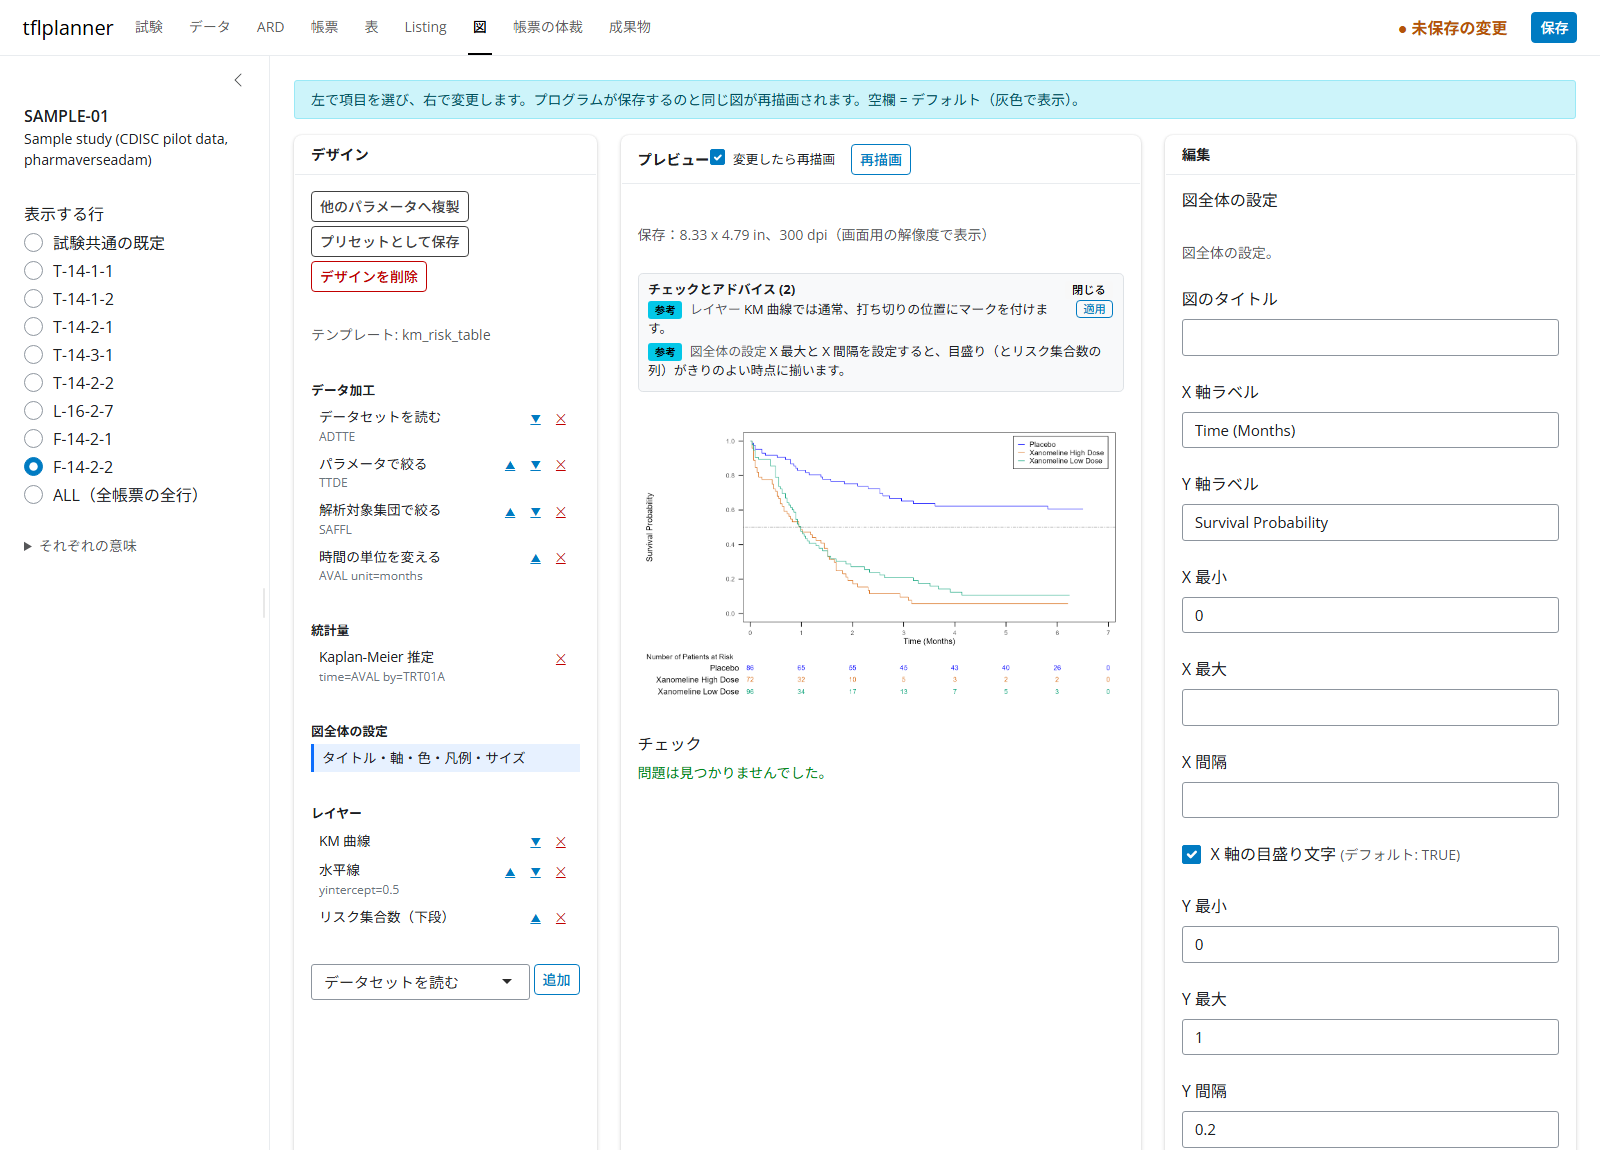
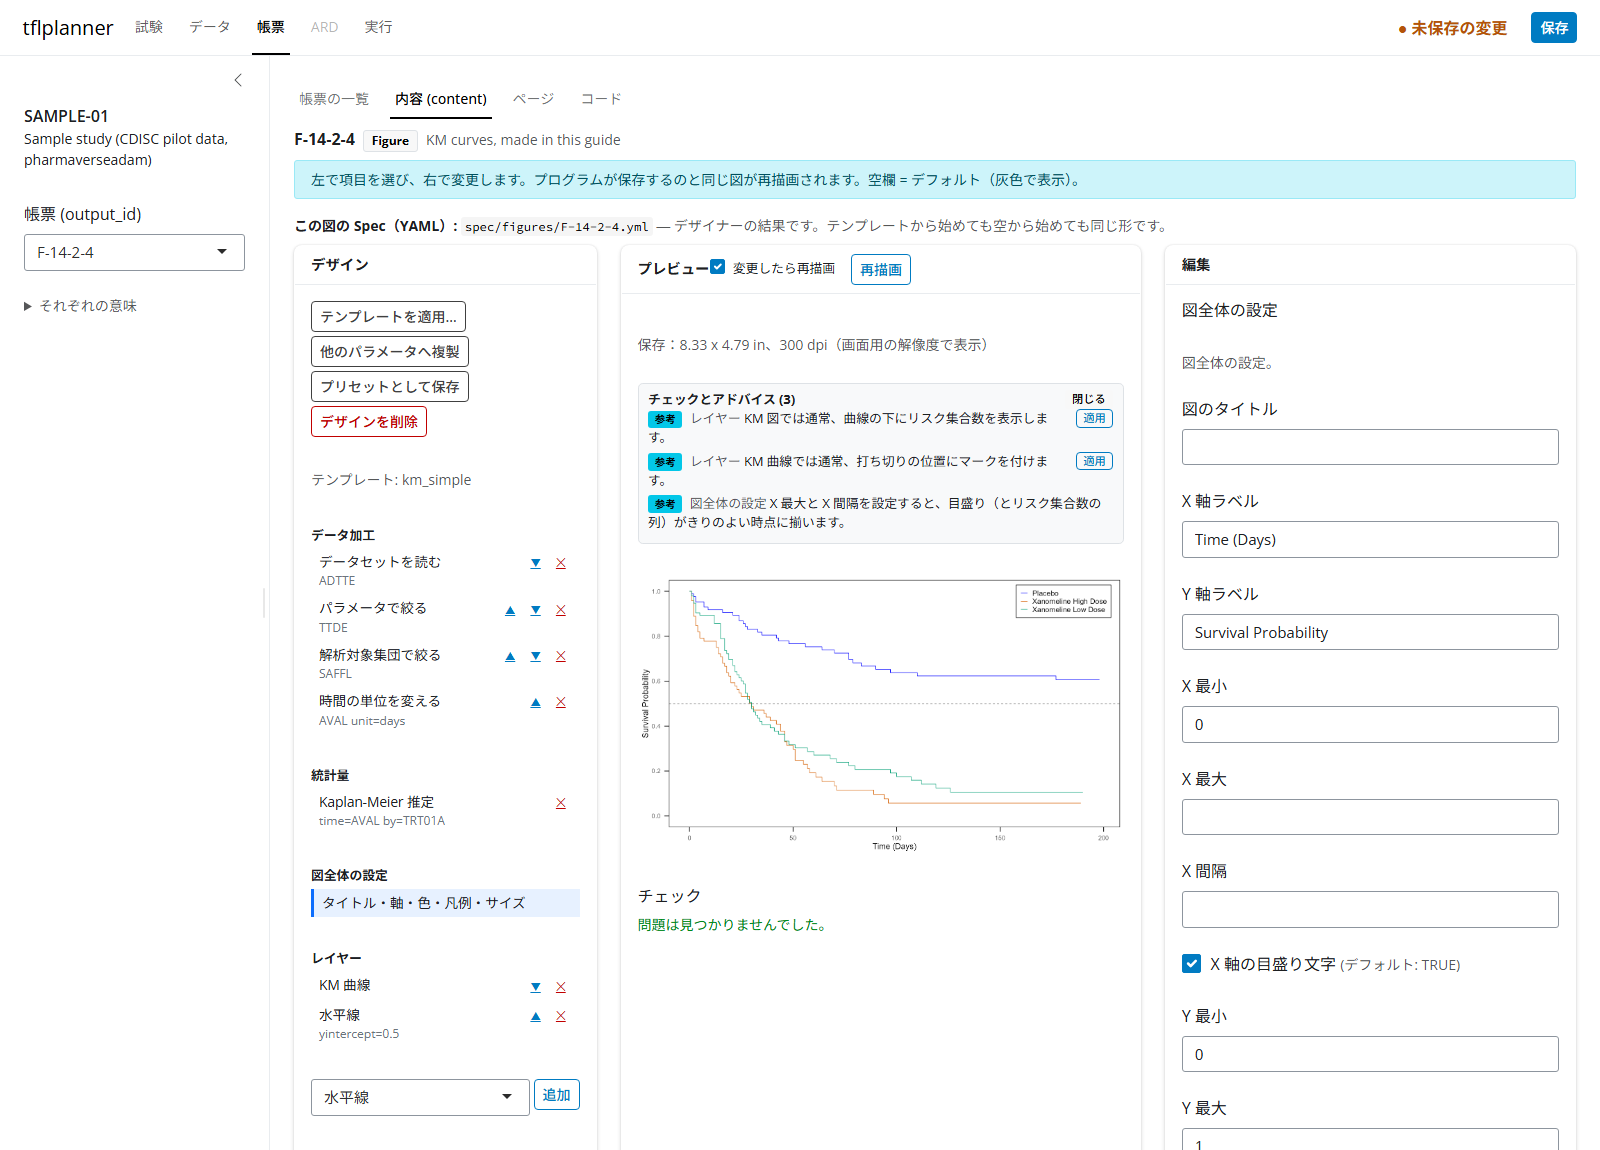
docs: ja-figures follows the new screens and the sample's designed figure (#120)
The guide walks a template, then the designer (F-14-2-4 made like the
sample's F-14-2-3, checked identical), a design built from empty
(F-14-2-5), and user code, on Reports > Content and Run.  Five new
screenshots; the screenshot script drives the new screens.  0.0.2.9051.

diff --git a/NEWS.md b/NEWS.md
@@ -1,5 +1,13 @@
 # tflplanner (development version)
 
+- **The figure guide follows the sample again** (docs).  `ja-figures`
+  walks the three ways in order -- a template, then the designer (a new
+  F-14-2-4 made like the sample's F-14-2-3: `km_simple` and the median
+  line, checked identical to it), a design built from empty, and user code
+  -- on the screens as they are (Reports > Content, the first step; Run,
+  preview the selection).  New screenshots; `data-raw/make-article-
+  screenshots.R` drives the new screens (#120).
+
 - **The sample study has a figure made with the designer** (#114):
   F-14-2-3, Kaplan-Meier curves of the time to the first dermatologic
   event -- the designer's KM template on the sample's ADTTE, with one layer
